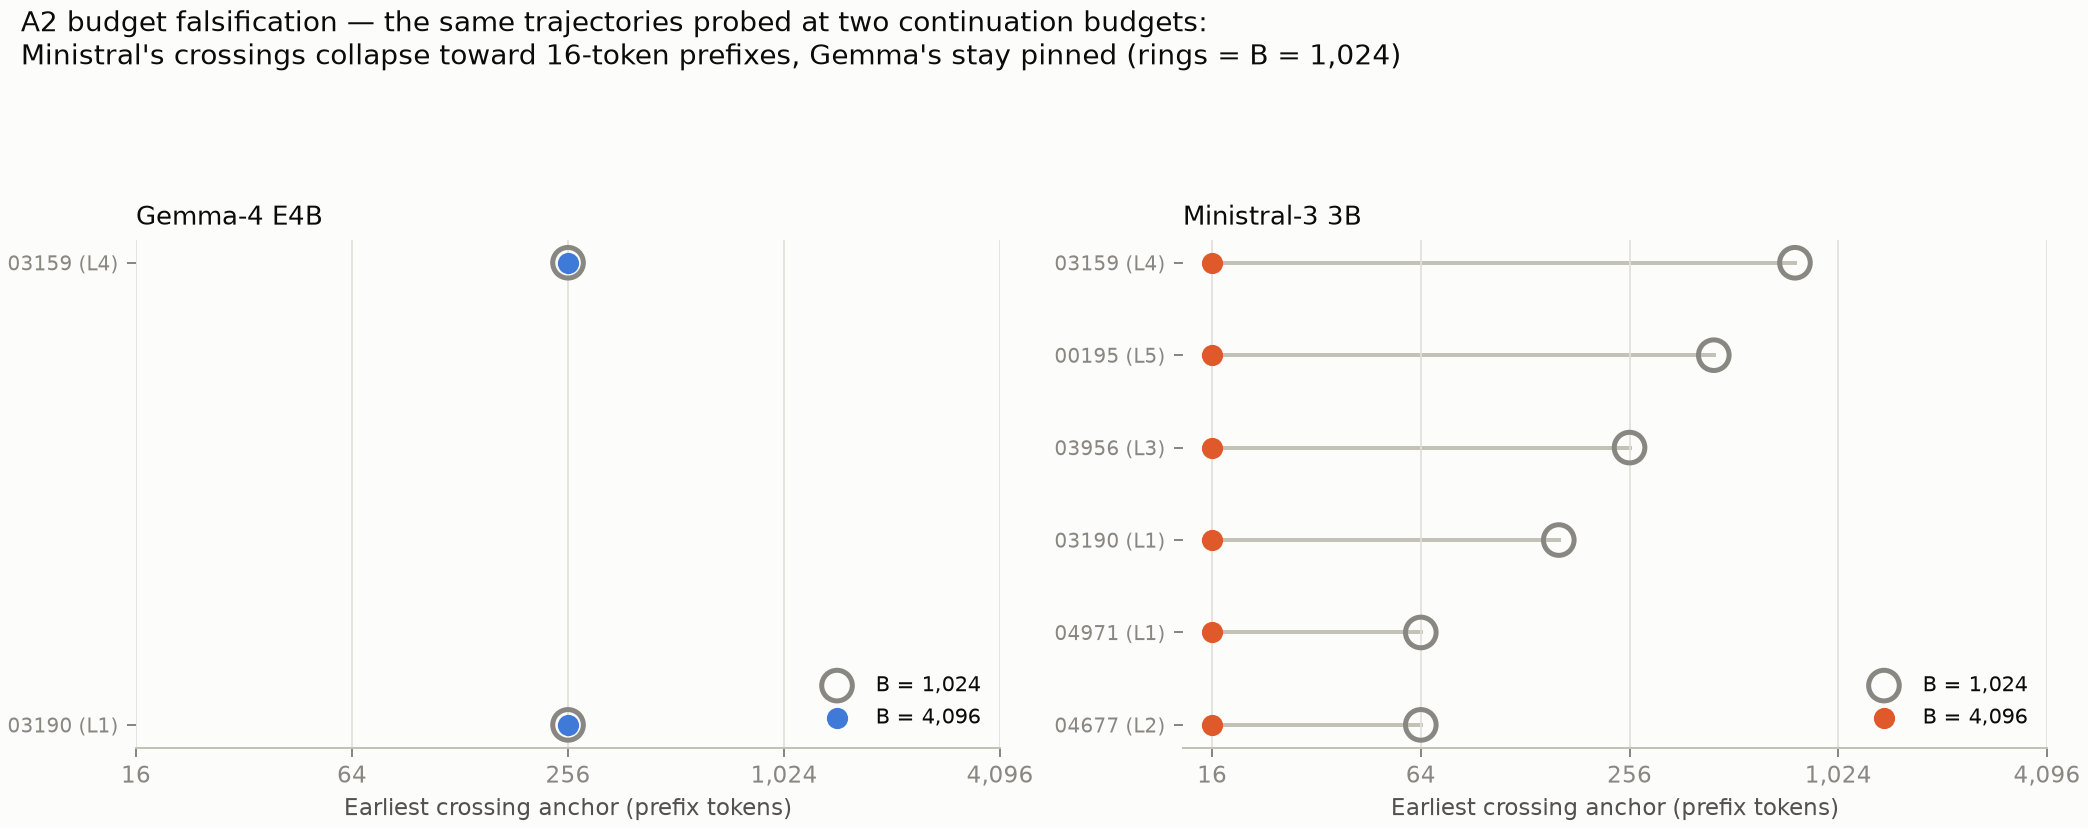
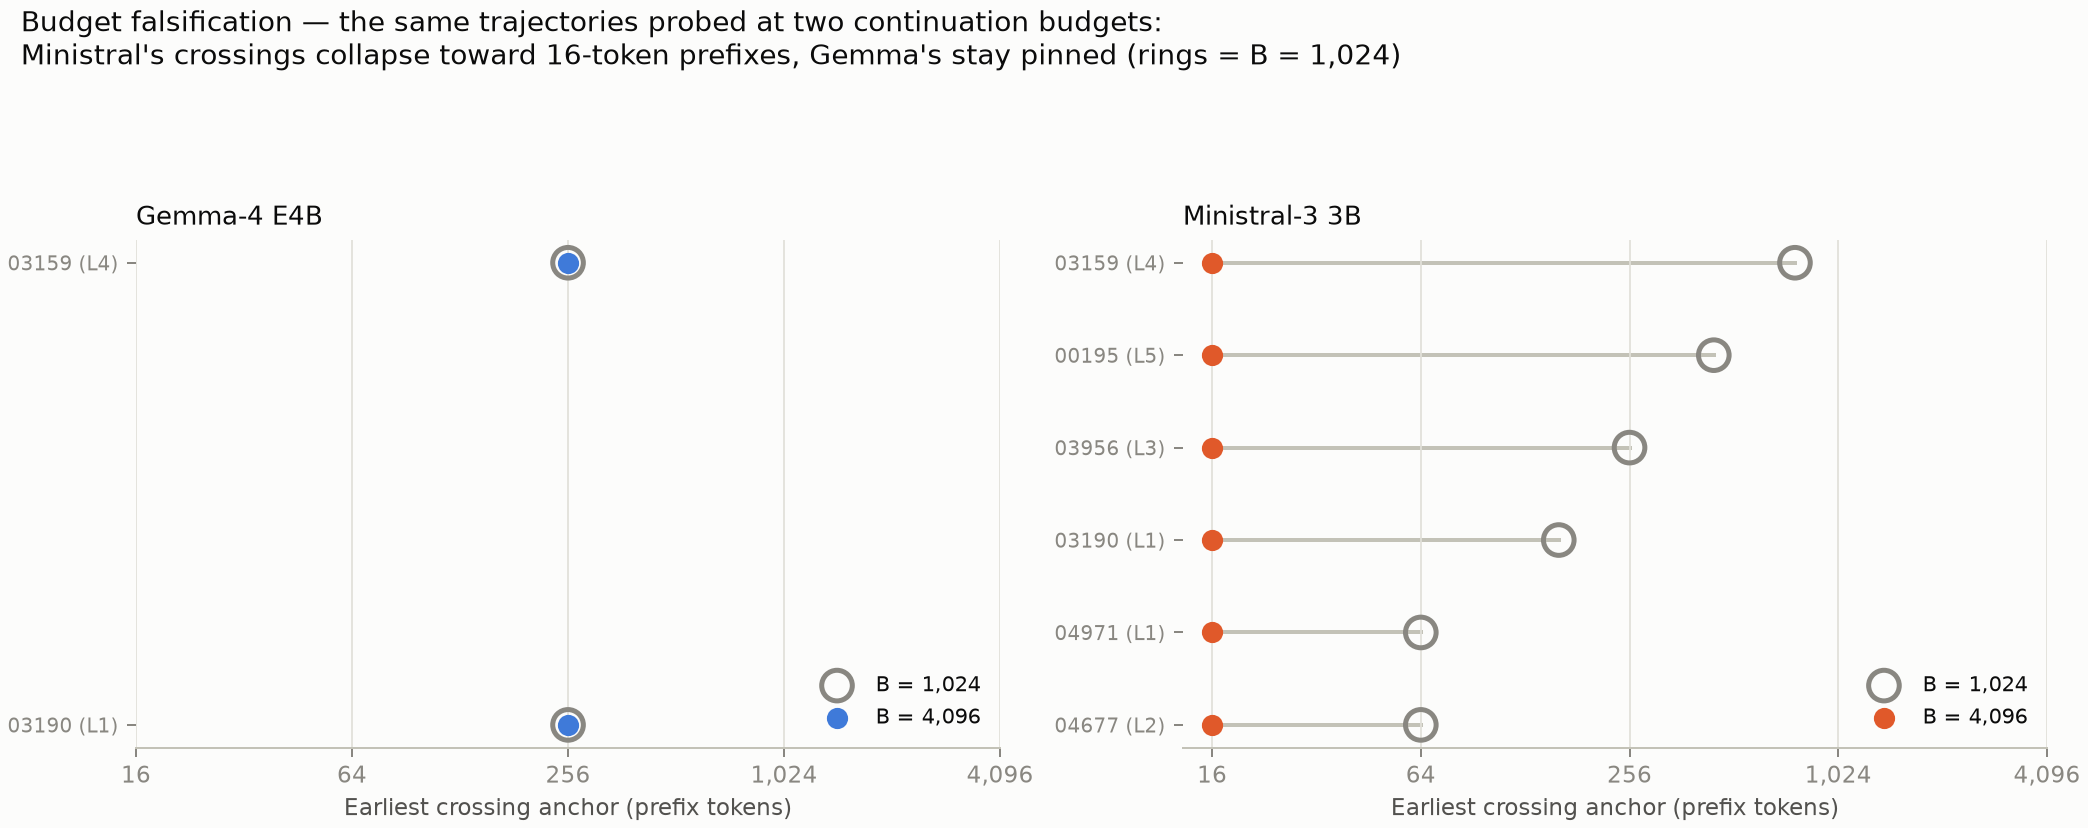
Sync reader-facing figure titles and wave/cohort mapping note

Changed region(s): [[0.0, 0.0, 0.5603, 0.0604]]

diff --git a/scripts/render_paper_figures.py b/scripts/render_paper_figures.py
@@ -80,12 +80,12 @@ def fig_regime_map(labels: pd.DataFrame, out: Path) -> None:
     bounds = np.cumsum([piv.cohort.eq(c).sum() for c in ("dev", "supplement", "wave3")])
     for b in bounds[:-1]:
         ax.axvline(b - 0.5, color=SURFACE, lw=3)
-    for name, lo, hi in zip(("dev (20)", "supplement (20)", "wave3 (49)"),
+    for name, lo, hi in zip(("development (20)", "supplement (20)", "expansion (49)"),
                             np.r_[0, bounds[:-1]], bounds):
         ax.text((lo + hi - 1) / 2, -0.62, name, ha="center", fontsize=8.6, color=SEC)
     ax.set_xlim(-0.5, len(piv) - 0.5)
     ax.set_title("Every problem × model cell in the project, classified under the "
-                 "frozen A5 rules", loc="left", fontsize=9.4, color=SEC, pad=18)
+                 "frozen taxonomy", loc="left", fontsize=9.4, color=SEC, pad=18)
     ax2 = fig.add_subplot(gs[1])
     counts = frame.groupby(["model", "cls"]).size().unstack(fill_value=0).reindex(
         columns=classes, fill_value=0)
@@ -143,7 +143,7 @@ def fig_dose_response(labels: pd.DataFrame, out: Path) -> None:
         ax.set_xticklabels(["1,024", "2,048", "4,096", "8,192"])
         ax.set_xlabel("Restart reasoning budget C (tokens)")
         ax.set_ylim(-0.04, 1.06)
-    fig.suptitle("Wave 3 restart dose–response — non-instant cells: Ministral climbs "
+    fig.suptitle("Restart dose–response on the expansion cohort — non-instant cells: Ministral climbs "
                  "with budget, Gemma stays flat", fontsize=11.5, color=INK,
                  x=0.01, ha="left")
     fig.savefig(out / "wave3_restart_dose_response.png", dpi=180)
@@ -182,7 +182,7 @@ def fig_topup_resolution(root: Path, out: Path) -> None:
                         Patch(color=GREEN, label="resolved solvable (≥6/8)")],
                frameon=False, fontsize=8.5, ncols=3, loc="upper right",
                bbox_to_anchor=(0.99, 0.92))
-    fig.suptitle('A5.1 ambiguity enlargement — what 4-attempt "maybe" cells became '
+    fig.suptitle('Ambiguity enlargement — what 4-attempt "maybe" cells became '
                  "at 8 attempts", fontsize=11.5, color=INK, x=0.01, ha="left")
     fig.savefig(out / "wave3_topup_resolution.png", dpi=180)
     plt.close(fig)
@@ -217,7 +217,7 @@ def fig_label_hardening(out: Path) -> None:
     axes[0].set_ylabel("Trajectories (of 49)")
     fig.legend(handles=[Patch(color=colors[c], label=c) for c in order],
                frameon=False, fontsize=8.8, ncols=4, loc="outside upper right")
-    fig.suptitle("Wave 3 labels before and after noise hardening",
+    fig.suptitle("Expansion-cohort labels before and after noise hardening",
                  fontsize=11.5, color=INK, x=0.01, ha="left")
     fig.savefig(out / "wave3_label_hardening.png", dpi=180)
     plt.close(fig)
@@ -271,7 +271,7 @@ def fig_swimmer(root: Path, out: Path) -> None:
         ax.set_yticks([])
         ax.grid(axis="y", visible=False)
         ax.set_xlabel("Prefix tokens (log scale)")
-    fig.suptitle("Wave 3 probes — 49 problems × 2 models: breakthrough intervals and "
+    fig.suptitle("Expansion-cohort probes — 49 problems × 2 models: breakthrough intervals and "
                  "censoring\npink rows: censored at threshold (terminal-replication "
                  "candidates)", fontsize=11.5, color=INK, x=0.01, ha="left")
     fig.savefig(out / "swimmer_wave3.png", dpi=180)
@@ -307,7 +307,7 @@ def fig_budget_falsification(root: Path, out: Path) -> None:
         ax.set_title(MODELS[short], loc="left", fontsize=10.5, color=INK)
         ax.grid(axis="y", visible=False)
         ax.legend(frameon=False, fontsize=8.6, loc="lower right")
-    fig.suptitle("A2 budget falsification — the same trajectories probed at two"
+    fig.suptitle("Budget falsification — the same trajectories probed at two"
                  " continuation budgets:\nMinistral's crossings collapse toward"
                  " 16-token prefixes, Gemma's stay pinned (rings = B = 1,024)",
                  fontsize=11, color=INK, x=0.01, ha="left")
@@ -359,7 +359,7 @@ def fig_matched_compute(root: Path, labels: pd.DataFrame, out: Path) -> None:
     fig.legend(handles=handles, frameon=False, fontsize=8.6, loc="outside upper left",
                bbox_to_anchor=(0.035, 0.93), ncols=1)
     fig.suptitle("Matched-budget value of Ministral's long prefixes — 13 censored "
-                 "Wave 3 cells", fontsize=11.5, color=INK, x=0.01, ha="left")
+                 "expansion-cohort cells", fontsize=11.5, color=INK, x=0.01, ha="left")
     fig.savefig(out / "wave3_matched_compute.png", dpi=180)
     plt.close(fig)
 

diff --git a/paper/sections/appendix_amendments.tex b/paper/sections/appendix_amendments.tex
@@ -37,6 +37,8 @@ permitted enlargement resolving the borderline cell \emph{against} the
 prior expectation.
 
 \paragraph{Cohort expansion (waves and gates).}
+The cohorts were collected in staged \emph{waves}; the expansion cohort
+is wave~3, and released artifact files keep the wave-numbered names.
 Froze the staged expansion: outcome-blind screens, wave gates with numeric
 thresholds, and split assignment before generation. \emph{Gate
 resolutions:} G1 (construct validity) failed for Ministral-3 per A2; G2

diff --git a/paper/sections/appendix_extra.tex b/paper/sections/appendix_extra.tex
@@ -66,7 +66,8 @@ validating them as genuine.
 
 \begin{figure}[h]\centering
 \includegraphics[width=\linewidth]{budget_falsification}
-\caption{A2 budget sensitivity: the same cells probed at $B = 1{,}024$
+\caption{Budget sensitivity (amendment A2,
+App.~\ref{app:amendments}): the same cells probed at $B = 1{,}024$
 versus $B = 4{,}096$. Ministral-3's ``breakthroughs'' are budget
 artifacts; Gemma-4's survive.}
 \label{fig:budgetfals}\end{figure}
